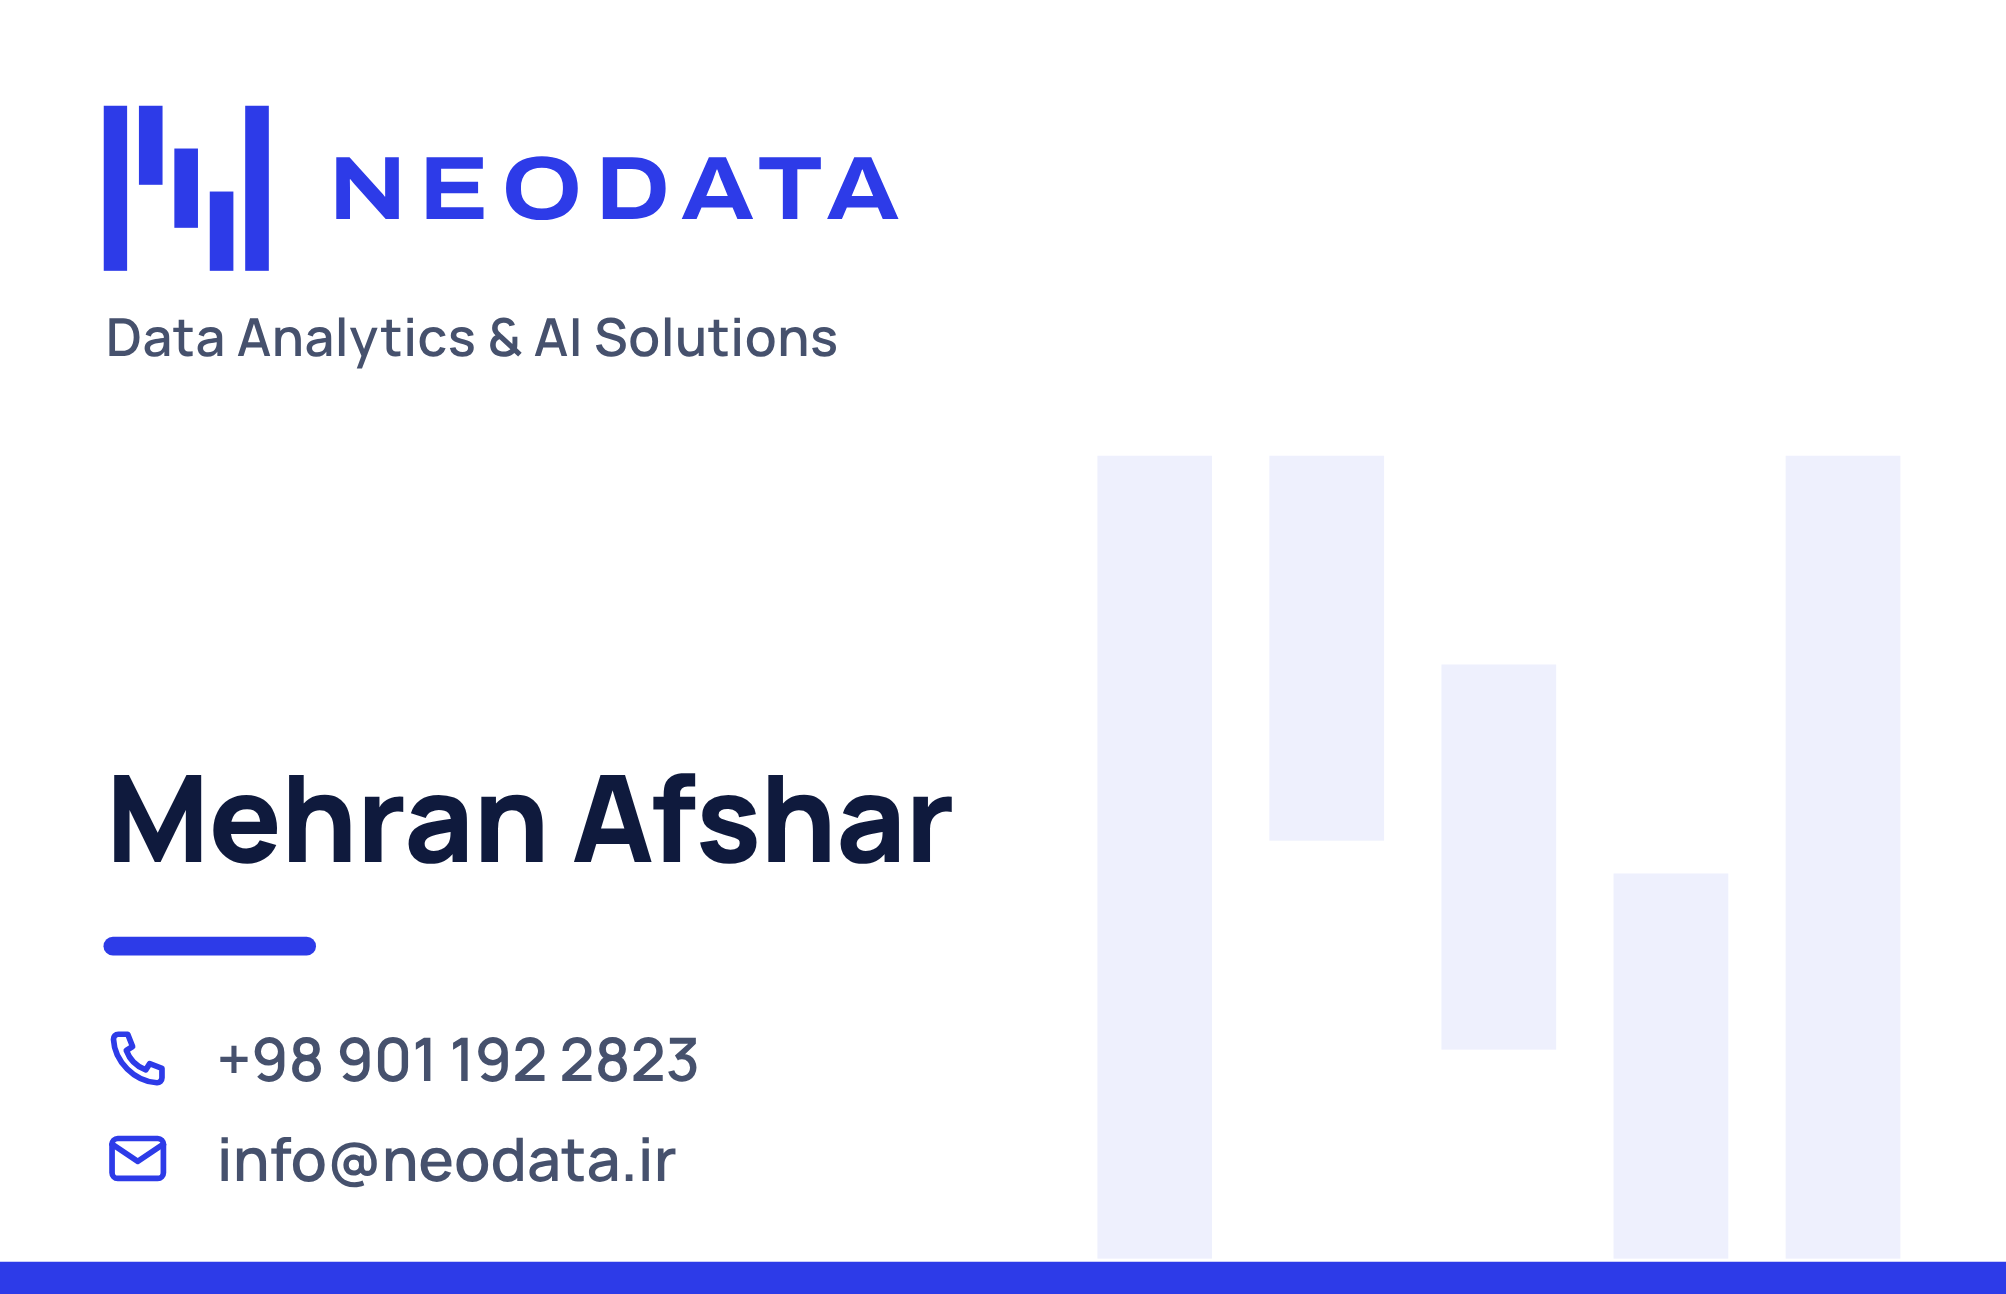
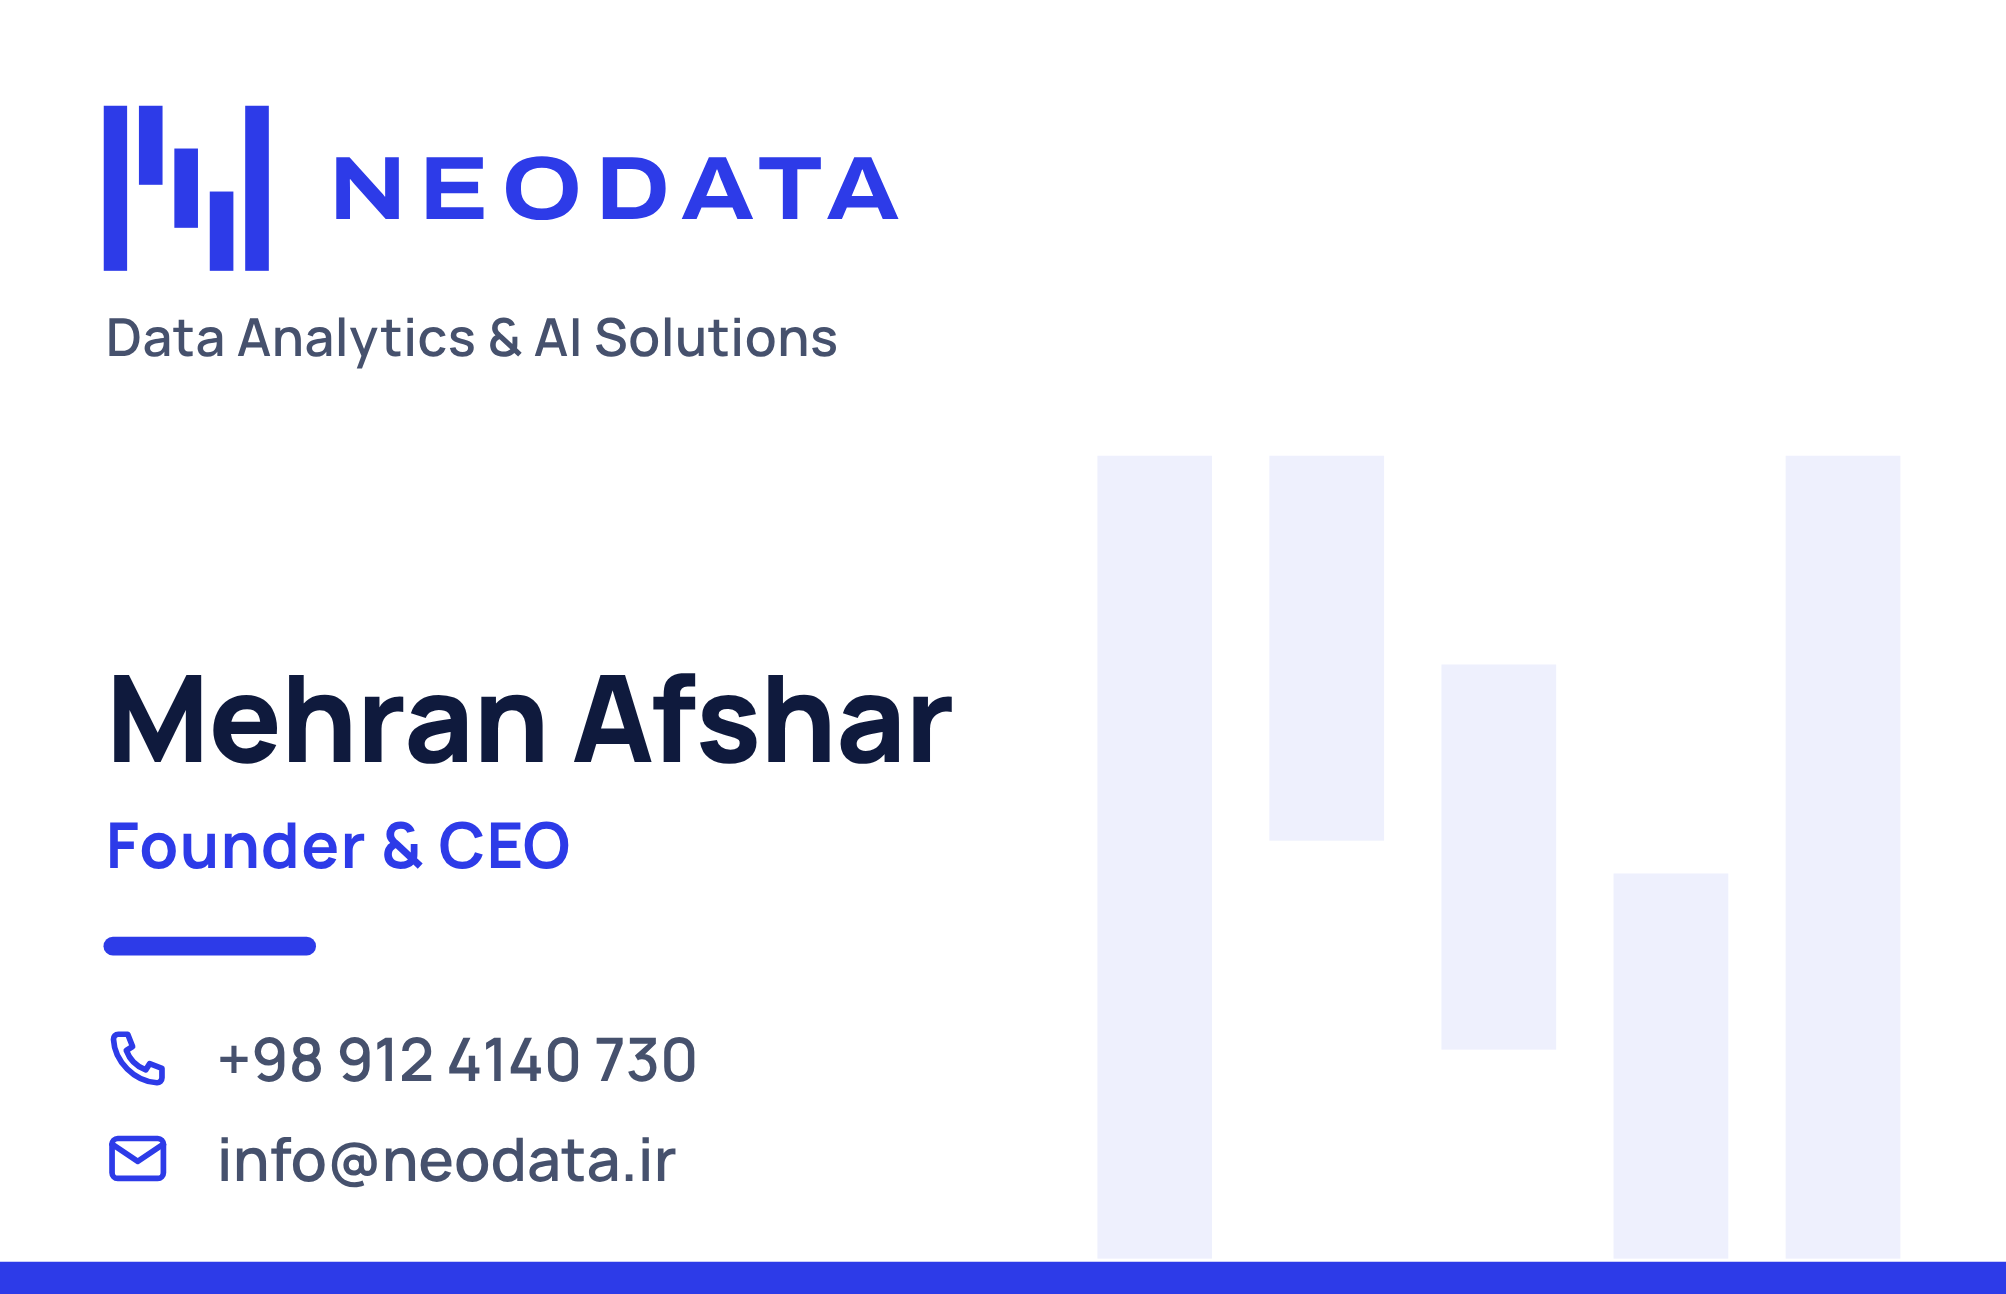
شمارهی تماس تازه (۰۹۱۲ ۴۱۴۰ ۷۳۰) در سایت و کارت؛ سمت «Founder & CEO» روی کارت
- سایت: هر پنج پیوند تماس (صفحهی مشاوره، سوالات متداول، بخش «شروع همکاری») و توضیح صفحهی مشاوره برای موتورهای جستوجو
- کارت ویزیت: «Founder & CEO» زیر نام و شمارهی +98 912 4140 730؛ PDF، تصویرها و پیشنمایش دوباره ساخته شد

Claude-Session: https://claude.ai/code/session_01DaLAUMWqgqDaChyYMdJDRt

Changed region(s): [[0.0309, 0.5255, 0.4945, 0.6801], [0.1854, 0.8037, 0.3709, 0.8346]]

diff --git a/consult.html b/consult.html
@@ -4,7 +4,7 @@
 <meta charset="utf-8" />
 <meta name="viewport" content="width=device-width, initial-scale=1, viewport-fit=cover" />
 <title>درخواست مشاوره رایگان | نئودیتا</title>
-<meta name="description" content="جلسهی مشاورهی رایگان نئودیتا: نیازهای کسبوکارتان را میشناسیم، راهحل دادهمحور پیشنهاد میدهیم و پس از تأیید شما و امضای قرارداد، خدمات را در زمان مقرر ارائه میکنیم. تلفن ۰۹۰۱۱۹۲۲۸۲۳." />
+<meta name="description" content="جلسهی مشاورهی رایگان نئودیتا: نیازهای کسبوکارتان را میشناسیم، راهحل دادهمحور پیشنهاد میدهیم و پس از تأیید شما و امضای قرارداد، خدمات را در زمان مقرر ارائه میکنیم. تلفن ۰۹۱۲۴۱۴۰۷۳۰." />
 <meta name="theme-color" content="#f6f8fc" />
 <meta property="og:type" content="website" />
 <meta property="og:site_name" content="نئودیتا" />
@@ -135,8 +135,8 @@
       میکنیم دادههایتان کجا میتوانند هزینهها را کم کنند و برایتان مزیت رقابتی بسازند.
     </p>
     <div class="page-hero__cta">
-      <a class="btn btn--primary btn--lg" href="tel:+989011922823">
-        <svg class="ico" aria-hidden="true"><use href="#i-phone"/></svg> تماس: <span dir="ltr">۰۹۰۱ ۱۹۲ ۲۸۲۳</span>
+      <a class="btn btn--primary btn--lg" href="tel:+989124140730">
+        <svg class="ico" aria-hidden="true"><use href="#i-phone"/></svg> تماس: <span dir="ltr">۰۹۱۲ ۴۱۴۰ ۷۳۰</span>
       </a>
       <a class="btn btn--ghost btn--lg" href="mailto:info@neodata.ir?subject=%D8%AF%D8%B1%D8%AE%D9%88%D8%A7%D8%B3%D8%AA%20%D9%85%D8%B4%D8%A7%D9%88%D8%B1%D9%87%20%D8%B1%D8%A7%DB%8C%DA%AF%D8%A7%D9%86">
         <svg class="ico" aria-hidden="true"><use href="#i-mail"/></svg> درخواست با ایمیل
@@ -202,9 +202,9 @@
     <aside class="contact-card card" data-reveal style="--d: 120ms" aria-labelledby="t-call">
       <span class="contact-card__ico"><svg class="ico" aria-hidden="true"><use href="#i-phone"/></svg></span>
       <h2 class="contact-card__title" id="t-call">شمارهی پشتیبانی</h2>
-      <a class="contact-card__phone" href="tel:+989011922823" dir="ltr">۰۹۰۱ ۱۹۲ ۲۸۲۳</a>
+      <a class="contact-card__phone" href="tel:+989124140730" dir="ltr">۰۹۱۲ ۴۱۴۰ ۷۳۰</a>
       <p class="contact-card__hours"><svg class="ico" aria-hidden="true"><use href="#i-clock"/></svg> پاسخگویی در ساعات اداری</p>
-      <a class="btn btn--primary btn--lg" href="tel:+989011922823">
+      <a class="btn btn--primary btn--lg" href="tel:+989124140730">
         <svg class="ico" aria-hidden="true"><use href="#i-phone"/></svg> تماس برای وقت مشاوره
       </a>
       <p class="contact-card__mail">یا بنویسید: <a href="mailto:info@neodata.ir?subject=%D8%AF%D8%B1%D8%AE%D9%88%D8%A7%D8%B3%D8%AA%20%D9%85%D8%B4%D8%A7%D9%88%D8%B1%D9%87%20%D8%B1%D8%A7%DB%8C%DA%AF%D8%A7%D9%86" dir="ltr">info@neodata.ir</a></p>

diff --git a/print/business-card/business-card.html b/print/business-card/business-card.html
@@ -3,7 +3,7 @@
 <head>
 <meta charset="utf-8" />
 <meta name="viewport" content="width=device-width, initial-scale=1" />
-<title>NeoData business card · Mehran Afshar</title>
+<title>NeoData business card · Mehran Afshar, Founder &amp; CEO</title>
 <!--
   NeoData business card — Mehran Afshar
   Trim size 85 × 55 mm, with 3 mm bleed on every side (each page is 91 × 61 mm).
@@ -64,7 +64,11 @@
   .card--front .name {
     margin: 0; font-size: 14.5pt; font-weight: 800; letter-spacing: -.01em; line-height: 1.1;
   }
-  .card--front .rule { width: 9mm; height: .7mm; margin: 2.4mm 0 3mm; border-radius: .4mm; background: var(--blue); }
+  .card--front .role {
+    margin: 1.3mm 0 0; font-size: 7.6pt; font-weight: 700; letter-spacing: .02em; line-height: 1;
+    color: var(--blue);
+  }
+  .card--front .rule { width: 9mm; height: .7mm; margin: 2.6mm 0 3mm; border-radius: .4mm; background: var(--blue); }
   .card--front .contact { margin: 0; padding: 0; list-style: none; display: grid; gap: 1.3mm; }
   .card--front .contact li {
     display: flex; align-items: center; gap: 1.8mm;
@@ -99,11 +103,12 @@
       </div>
       <div class="person">
         <h1 class="name">Mehran Afshar</h1>
+        <p class="role">Founder &amp; CEO</p>
         <div class="rule"></div>
         <ul class="contact">
           <li>
             <svg viewBox="0 0 24 24" aria-hidden="true"><path d="M5.2 3.5h3.3l1.7 4.3-2.2 1.4a11.5 11.5 0 0 0 6.8 6.8l1.4-2.2 4.3 1.7v3.3a1.7 1.7 0 0 1-1.8 1.7C10.9 20.1 3.9 13.1 3.5 5.3a1.7 1.7 0 0 1 1.7-1.8z"/></svg>
-            +98 901 192 2823
+            +98 912 4140 730
           </li>
           <li>
             <svg viewBox="0 0 24 24" aria-hidden="true"><rect x="3" y="5" width="18" height="14" rx="2"/><path d="M3 7l9 6 9-6"/></svg>

diff --git a/faq.html b/faq.html
@@ -217,8 +217,8 @@
     <h2 id="t-more">پاسخ پرسشتان را پیدا نکردید؟</h2>
     <p>در ساعات اداری با شمارهی پشتیبانی تماس بگیرید یا پرسشتان را در جلسهی مشاورهی رایگان مطرح کنید.</p>
     <div class="end__cta">
-      <a class="btn btn--primary btn--lg" href="tel:+989011922823">
-        <svg class="ico" aria-hidden="true"><use href="#i-phone"/></svg> تماس: <span dir="ltr">۰۹۰۱ ۱۹۲ ۲۸۲۳</span>
+      <a class="btn btn--primary btn--lg" href="tel:+989124140730">
+        <svg class="ico" aria-hidden="true"><use href="#i-phone"/></svg> تماس: <span dir="ltr">۰۹۱۲ ۴۱۴۰ ۷۳۰</span>
       </a>
       <a class="btn btn--ghost btn--lg" href="consult.html">درخواست مشاوره رایگان</a>
     </div>

diff --git a/index.html b/index.html
@@ -557,7 +557,7 @@
       </div>
       <!-- نشانی ایمیل موقت است؛ پیش از انتشار با نشانی واقعی جایگزین شود -->
       <p class="end__mail anim">
-        یا مستقیم تماس بگیرید: <a href="tel:+989011922823" dir="ltr">۰۹۰۱ ۱۹۲ ۲۸۲۳</a> (پاسخگویی در ساعات اداری)
+        یا مستقیم تماس بگیرید: <a href="tel:+989124140730" dir="ltr">۰۹۱۲ ۴۱۴۰ ۷۳۰</a> (پاسخگویی در ساعات اداری)
         · ایمیل: <a href="mailto:info@neodata.ir" dir="ltr">info@neodata.ir</a>
       </p>
       <div class="end__sign anim">

diff --git a/README.md b/README.md
@@ -56,8 +56,9 @@ print/business-card/ کارت ویزیت (پایین را ببینید)؛ بخش
 - بخشها: آغاز با دکمهی تماس و ایمیل، مسیر همکاری در چهار گام (جلسهی آشنایی ← پیشنهاد راهحل
   دادهمحور ← تأیید و امضای قرارداد ← ارائهی خدمات در زمان مقرر)، آنچه در جلسه میگذرد، و کارت
   شمارهی پشتیبانی.
-- **شمارهی پشتیبانی:** ۰۹۰۱۱۹۲۲۸۲۳، پاسخگویی در ساعات اداری. در سه پیوند همین صفحه و بخش
-  «شروع همکاری» صفحهی اصلی آمده (`tel:+989011922823`). اگر عوض شد، همه را با هم عوض کنید.
+- **شمارهی پشتیبانی:** ۰۹۱۲ ۴۱۴۰ ۷۳۰، پاسخگویی در ساعات اداری (`tel:+989124140730`). در سه پیوند
+  همین صفحه و توضیح آن برای موتورهای جستوجو، پایان صفحهی سوالات متداول، بخش «شروع همکاری» صفحهی
+  اصلی و کارت ویزیت (`+98 912 4140 730`) آمده؛ اگر عوض شد، همه را با هم عوض کنید.
 - صفحه فرم ندارد، چون سایت سرور ندارد تا فرم را دریافت کند. درخواست با تماس یا ایمیل فرستاده میشود.
 
 **«سوالات متداول» (`faq.html`):** از پیوند «سوالات متداول» در نوار ناوبری باز میشود و دیگر بخشی
